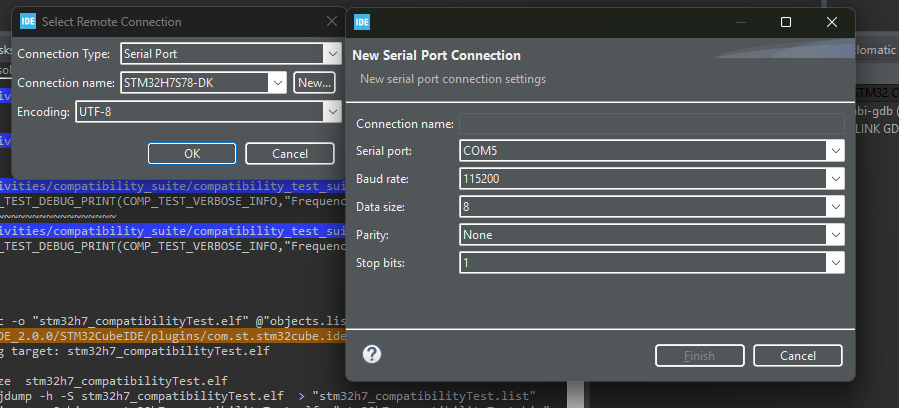
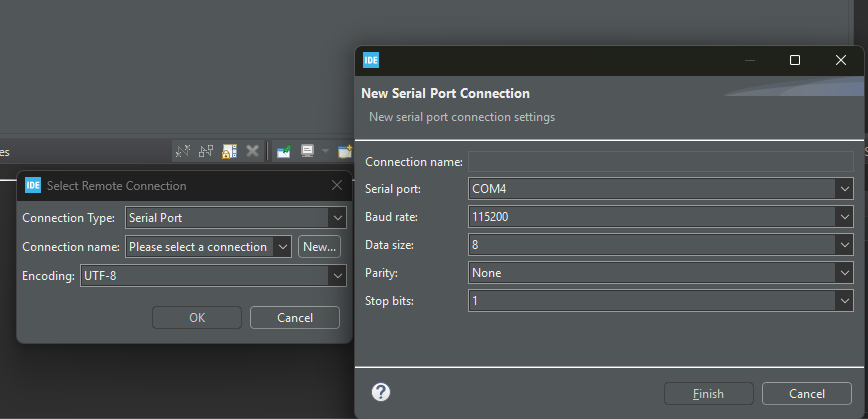
re-layout

diff --git a/platform/STM32N6_setup/docs/README.md b/platform/STM32N6_setup/docs/README.md
@@ -1,121 +1,114 @@
-<h2><u>STM32N65780-DK MB1939C platform instructions</u></h1>
-<br>
+<h2><u>STM32N6570-DK MB1939C platform instructions</u></h1>
 <br>
 <h4 { style="margin-bottom: 0px;" }><u>HW integration</u></h4>
 <br>
 <img src="images/um3300-discovery-kit-with-stm32n657x0-mcu-stmicroelectronics.png" width="600"><br>
 <br>
-<ol margin-top="0px"; margin-bottom="0px"; margin-left="0"; type="a"><b><u>Prepare the HW as follows:</u></b>
-<li> Remove the on board U25 device (see the Yellow circule)</li>
-<li> Replace with Winbond device (for example W77T25NW1)</li>
+<b><u>Prepare the HW as follows:</u></b><br>
+
+1. Remove the on board U25 device (see the Yellow circle)<br>
+2. Replace with Winbond device (for example W77T25NW1)<br>
 <br>
-<div><img src="images/um3300-discovery-kit-with-stm32n657x0-mcu-stmicroelectronics-bottom-side-bootSwitch.png" width="400"></div><br>
-<li> Make sure theat the mechanical switch <strong>BOOT1</strong> is set to <strong>H</strong> position (see the red arrows above)</li>
-<li> Connect a USB-C cable to the board's STLINK port on one side indicated as a green arrow</li>
-</ol>
+<div><img src="images/um3300-discovery-kit-with-stm32n657x0-mcu-stmicroelectronics-bottom-side-bootSwitch.png" width="400"></div>
+
+3. Make sure that the mechanical switch <strong>BOOT1</strong> is set to <strong>H</strong> position (see the red arrows above)<br>
+4. Connect a USB-C cable to the board's STLink port on one side indicated as a green arrow<br>
 
 
 <br>
 <u><h4 { style="margin-bottom: 0px;" }>SW integration</u></h4>
-<ol>
-  <li>Install the following tool chain:
-  <ol margin-top="0px"; margin-bottom="0px"; margin-left="0"; type="a">
-    <li>STM32CubeIDE - version 2.0.0 Build: 26820_20251114_1348</li>
-    <li>Clone  Winbond's Compatibility tests repository and combine into the project</li>
-  </ol></li><br>
 
-<Li> Installation of the terminal console (one time operation after installing the IDE)<br>
-    <ol margin-top="0px"; margin-bottom="0px"; margin-left="0"; type="a">
-      <li> Click on Menu->Help<br>
-      <div><img src="images/install_the_console_terminal1.png" width="700"></div></li><br>
-      Click "Install new Software.."<br>
-      <li> Select from the combo-box the item <strong>Eclipse SimRel 2024-09 - https://download.eclipse.org/releases/2024-09</strong><br>
-      <div><img src="images/install_the_console_terminal2.png" width="700"></div></li><br>
-      <li> Wait for few minutes while the available addons are being collected<br>
-      <div><img src="images/install_the_console_terminal3.png" width="700"></div></li><br>
-      <li> In the Filter line (above the populated list) write terminal<br>
-      <div><img src="images/install_the_console_terminal4.png" width="700"></div></li><br>
-      <li> Click on the checkbox of <strong>TM Terminal Connector Extensions</strong> and then, Click <strong>Next</strong>
-      <div><img src="images/install_the_console_terminal5.png" width="700"></div></li><br>      
-      <li>Click <strong>Finish</strong><br>
-      <div><img src="images/install_the_console_terminal6.png" width="700"></div></li><br>
-      <li> At the bottom right corner you wlil see the installation progress<br>
-      <div><img src="images/install_the_console_terminal7.png" width="400"></div></li><br>
-      <li> Once the installation is done, you will be prompetd to restat the IDE - Do it</li><br>
-      <li> Now, create a new Console and configure to accept UART4 transmissions<br>
-      <div><img src="images/install_the_console_terminal8.png" width="400"></div></li><br>
-      <li> Select <strong>Command Shell Console</strong> and fill the parameters as shown in the image<br>
+1. Install the STM32CubeIDE - version 2.0.0 Build: 26820_20251114_1348
+2. Install the STMCubeIDE terminal console or any other terminal tool
+3. Clone the Winbond's Compatibility tests repository
+4. Load the Project
+5. Compile
+6. Run the test
+<br>
+
+<u><b>Installation steps details:</b></u>
+
+1. <u>Install the STM32CubeIDE - version 2.0.0 Build: 26820_20251114_1348</u><br>
+    The test was run on the version & build as mentioned above, but it may run on other versions<br><br>
+2. <u>Install the STMCubeIDE terminal console or any other terminal tool</u><br>
+   This step is optional, you can skip this step if you only want a pass/fail indication by the LEDs or when using external terminal tool.<br>
+   The test was run on the STM32N6570DK with the following serial connection settings "115200bps 8N1".<br>
+   <u>Following are the steps for installing the IDE's terminal console</u>
+
+   a. Click on Menu->Help -> "Install new Software.."
+      <div><img src="images/install_the_console_terminal1.png" width="700"></div><br>
+   b. Select from the combo-box the item <strong>Eclipse SimRel 2024-09 - https://download.eclipse.org/releases/2024-09</strong>
+      <div><img src="images/install_the_console_terminal2.png" width="700"></div><br>
+   c. Wait for few minutes while the available addons are being collected<br>
+      <div><img src="images/install_the_console_terminal3.png" width="700"></div><br>
+   d. In the Filter line (above the populated list) write terminal<br>
+      <div><img src="images/install_the_console_terminal4.png" width="700"></div><br>
+   e. Click on the checkbox of <strong>TM Terminal Connector Extensions</strong> and then, Click <strong>Next</strong>
+      <div><img src="images/install_the_console_terminal5.png" width="700"></div><br>
+   f. Click <strong>Finish</strong>
+      <div><img src="images/install_the_console_terminal6.png" width="700"></div><br>
+   g. At the bottom right corner you wlil see the installation progress
+      <div><img src="images/install_the_console_terminal7.png" width="400"></div><br>
+   h. Once the installation is done, you will be prompetd to restat the IDE - Do it<br><br>
+   i. Now, create a new Console and configure to accept the STM32N6 log transmissions
+      <div><img src="images/install_the_console_terminal8.png" width="400"></div><br>
+   j. Select <strong>Command Shell Console</strong> and fill the parameters as shown in the image
       <div><img src="images/install_the_console_terminal9.png" width="400"></div><br>
-      <li> select <strong>New</strong> verify the serial port parameters as in the image <br>
-      <div><img src="images/install_the_console_terminal10.png" width="700"></div></li><br>
-      <li>Connect the STMLNK port of the board via a USB-C cable to the host computer and the comm port wlil be automatically filled.<BR>
-      Name the connection and click Finish and then click OK.<BR>
-      <div><img src="images/install_the_console_terminal11.png" width="500"></div></li>
-      <li>Switch between the different console contents (build-log / run-log /  <strong>UART4 output</strong>) by clicking on the blue arrow<br>
-      <div><img src="images/install_the_console_terminal12.png" width="400"></div></li><br>
-    </ol><br>
+   k. Select <strong>New</strong> verify the serial port parameters as in the image
+      <div><img src="images/install_the_console_terminal10.png" width="700"></div><br>
+   l. Connect the STLink port of the board via a USB-C cable to the host computer and the comm port wlil be automatically filled.<br><br>
+   m. Name the connection and click Finish and then click OK.
+      <div><img src="images/install_the_console_terminal11.png" width="500"></div><br>
+   n. Switch between the different console contents (build-log / run-log /  <strong>stm32n6570 output</strong>) by clicking on the blue arrow<br>
+      <div><img src="images/install_the_console_terminal12.png" width="400"></div><br><br>
 
-<li>The project uses Firmware Package V1.3.0 .<br>
-SW modules that are included</strong>:<br>
-  <ol type="a">
-    <li>stm32n6_bsp\Application\Startup\              </li>
-    <li>stm32n6_bsp\Application\User\                 </li>
-    <li>stm32n6_bsp\Drivers\BSP\STM32N6570-DK\        </li>
-    <li>stm32n6_bsp\Drivers\CMSIS\Device              </li>
-    <li>stm32n6_bsp\Drivers\CMSIS\Include             </li>
-    <li>stm32n6_bsp\Drivers\STM32N6xx_HAL_Driver\Inc  </li>
-    <li>stm32n6_bsp\Drivers\STM32N6xx_HAL_Driver\Src  </li>
-    <li>stm32n6_bsp\FSBL\Inc                          </li>
-    <li>stm32n6_bsp\FSBL\Src                          </li>
-  </ol></li>
-<br>
-</ol>
-<br>
-<u><h4 { style="margin-bottom: 0px;" }>Load the project</u></h4>
-<ol>
-  <li>In the IDE click on [File]->Import Projects from File System or Archive
-  <div><img src="images/file-importProject.png" width="400"></div></li><br>
-  
-  <li>click on the <strong>Directory</strong>
-  <div><img src="images/file-importProject-selectFolder.png" width="600"></div></li><br>
-  
-  <li>At the opened GUI, Browse to the root folder of the suite and click <strong>Select Folder</strong>
-  <div><img src="images/select_the_root_of_the_suite.png" width="600"></div></li><br>
 
-  <li>un-select all but  the STM32N6_setup checkboxes, then, click on the <strong>Finish</strong>
-  <div><img src="images/file-importProject-finish.png" width="600"></div></li><br>
-</ol>
+3. <u>Clone the Winbond's Compatibility tests repository</u>  
+   The project uses Firmware Package V1.3.0<br>
+   <u>The following SW modules are included</u>:<br>
+   a. stm32n6_bsp\Application\Startup\              
+   b. stm32n6_bsp\Application\User\                 
+   c. stm32n6_bsp\Drivers\BSP\STM32N6570-DK\        
+   d. stm32n6_bsp\Drivers\CMSIS\Device              
+   e. stm32n6_bsp\Drivers\CMSIS\Include             
+   f. stm32n6_bsp\Drivers\STM32N6xx_HAL_Driver\Inc  
+   g. stm32n6_bsp\Drivers\STM32N6xx_HAL_Driver\Src  
+   h. stm32n6_bsp\FSBL\Inc                          
+   i. stm32n6_bsp\FSBL\Src                          
+<br><br>
+
+4. <u>Load the project</u><br>
+  a. In the IDE click on [File]->Import Projects from File System or Archive<br>
+     <img src="images/file-importProject.png" width="400"><br><br>
+  b. Click on the <strong>Directory</strong><br>
+     <img src="images/file-importProject-selectFolder.png" width="600"><br><br>
+  c. At the opened GUI, Browse to the root folder of the suite and click <strong>Select Folder</strong><br>
+     <img src="images/select_the_root_of_the_suite.png" width="600"><br><br>
+  d. Un-select all but  the STM32N6_setup checkboxes, then, click on the <strong>Finish</strong><br>
+     <img src="images/file-importProject-finish.png" width="600"><br><br>
 <br>
-<u><h4 { style="margin-bottom: 0px;" }>Compile</h4></u>
-Right-click on the project -> Build Configurations -> Set Active -> Debug as the active build,  
+
+5. <u>Compile</u>
+   Right-click on the project -> Build Configurations -> Set Active -> Debug as the active build,  
    then, (at the above associative menu) choose <strong>Build Project</strong> or  <strong>[CTRL]+B</strong> or <strong>project->Build All</strong><br>
-   <img src="images/selectActiveBuild.png" width="300"><br>
-<br>
-<u><h4 { style="margin-bottom: 0px;" }>Run the test</h4></u>
-<ol>
-  <li>connect the board's STMLNK port to the host computer</li>
-  <li>To receive log messages switch the console display to uart4-output (see above in the console terminal installation)
+   <img src="images/selectActiveBuild.png" width="300"><br><br>
 
-<li>Run the test:  
-<ol>
-  <li>Click the Bug in Debug mode with breakpoint capability, or, click the right-pointing triangle to Run
-  <div><img src="images/run_the_test.png" "width="80"></div></li><br>
-  <li>The test result enables either the green (test pass) or RED (test fail) LEDs which are located at the bottom side of the board.</li><br>
-  <li><strong>Optionally</strong>, (in the case that the teraterm is running and configured)
-  <ol>
-    <li>Observe the test result on the output panel</li>
-    <li>Compare the test result to the log files which are located under the logs/ folder</li><br>
-  </ol></li>
+6. <u>Run the test</u><br>
+  a. Connect the board's STMLNK port to the host computer<br>
+  b. To receive log messages switch the console display to uart4-output (see above in the console terminal installation)<br>
+  c. Click the Bug in Debug mode with breakpoint capability, or, click the right-pointing triangle to Run<br>
+  <img src="images/run_the_test.png"><br>
+  d. The test result enables either the green (test pass) or RED (test fail) LEDs which are located at the bottom side of the board.<br>
+  e. <strong>Optionally</strong>, (in the case that the teraterm is running and configured)
+  f. Observe the green and red LEDs<br>
+  <img src="images/um3300-discovery-kit-with-stm32n657x0-mcu-stmicroelectronics-bottom-side.png" width="500"><br><br>
+  Example for test pass indication<br>
+  <img src="images/um3300-discovery-kit-with-stm32n657x0-mcu-stmicroelectronics-bottom-side-pass.jpg" width="200"><br><br>
+  Example for test fail indication<br>
+  <img src="images/um3300-discovery-kit-with-stm32n657x0-mcu-stmicroelectronics-bottom-side-fail.jpg" width="200"><br><br>
 
-  <li>Observe the green and red LEDs (located at the lower left corner of the board as shown below) which are configured to signal the user whether the test has passed (green LED on) or failed (red LED on)
-  <div><img src="images/um3300-discovery-kit-with-stm32n657x0-mcu-stmicroelectronics-bottom-side.png" width="500"></div><br>
-
-  <div>Example for test pass indication</div>
-  <div><img src="images/um3300-discovery-kit-with-stm32n657x0-mcu-stmicroelectronics-bottom-side-pass.jpg" width="200"></div><br>
+  g. Compare the test result to the log files which are located under the logs/ folder<br>
   
-  <div>Example for test fail indication</div>
-  <div><img src="images/um3300-discovery-kit-with-stm32n657x0-mcu-stmicroelectronics-bottom-side-fail.jpg" width="200"></div><br>
-</li></ol>
 
 ###### (*)Note: The mentioned IDE and TERATERM versions have been validated by Winbond. Different IDE and TERATERM versions may work as well.
 ---

diff --git a/platform/STM32H7_setup/docs/README.md b/platform/STM32H7_setup/docs/README.md
@@ -5,10 +5,10 @@
   <img src="images/STM32H7_top_side.jpg" width="600"><br>
   <br>
 <b><u>Prepare the HW as follows:</u></b><br>
-  1. Remove the on board U23 device (see the Yellow circule)<br>
+  1. Remove the on board U23 device (see the Yellow circle)<br>
   2. Replace with Winbond device (for example W77T64NWS)<br>
   3. Connect a USB-C cable to the board's STLINK port on one side (see the green arrow above)<br>
-  4. Make sure theat the mechanical switch <strong>BOOT0 (SW1)</strong> is set to <strong>0</strong> position as in the image below<br>
+  4. Make sure that the mechanical switch <strong>BOOT0 (SW1)</strong> is set to <strong>0</strong> position as in the image below<br>
     <img src="images/STM32H7_bootSwitch.jpg" width="300"><br>
 
 
@@ -25,10 +25,10 @@
 
 <u><b>Installation steps details:</b></u>
 
-1. <u>Install the STM32CubeIDE - version 2.0.0 Build: 26820_20251114_1348</u>
+1. <u>Install the STM32CubeIDE - version 2.0.0 Build: 26820_20251114_1348</u><br>
     The test was run on the version & build as mentioned above, but it may run on other versions<br>
-2. <u>Install the STMCubeIDE terminal console or any other terminal tool</u>
-   This step is optional, you can skip this step if you only want a pass/fail indication by the LEDs or when using external terminal tool.
+2. <u>Install the STMCubeIDE terminal console or any other terminal tool</u><br>
+   This step is optional, you can skip this step if you only want a pass/fail indication by the LEDs or when using external terminal tool.<br>
    The test was run on the STM32H7S78DK with the following serial connection settings "115200bps 8N1".<br>
    <u>Following are the steps for installing the IDE's terminal console</u><br>
 
@@ -76,9 +76,9 @@
       <img src="images/file-importProject.png" width="400"><br><br>
     b. Click on the <strong>Directory</strong><br>
       <img src="images/file-importProject-selectFolder.png" width="600"><br><br>
-    c. At the opened GUI, Browse to the root folder of the suite and click <strong>Select Folder</strong>
+    c. At the opened GUI, Browse to the root folder of the suite and click <strong>Select Folder</strong><br>
       <img src="images/select_the_root_of_the_suite.png" width="600"><br><br>
-    d. Un-select all but the STM32H7_setup checkboxes, then, click on the <strong>Finish</strong>
+    d. Un-select all but the STM32H7_setup checkboxes, then, click on the <strong>Finish</strong><br>
       <img src="images/file-importProject-finish.png" width="600"><br><br>
 
   5. <u>Compile</u><br>

diff --git a/README.md b/README.md
@@ -1,5 +1,6 @@
 ### W77Q/T Compatibility Tests  
-W77Q/T Secure Flash devices are fully compatible with the standard Flash instruction set used in the W25Q family of devices. This test suite demonstrates this compatibility across multiple platforms.
+W77Q/T Secure Flash devices are fully compatible with the standard Flash instruction set used in the W25Q family of devices.
+This test suite demonstrates this compatibility across multiple platforms.
 
 The platforms covered by this test suite are:
 * NXP i\.MX RT1050
@@ -48,7 +49,7 @@ HW and FW integration steps for each platform are in the links below:
  │    │    ├── 📁logs                        ; This folder contains the STM32H7 test logs
  │    │    ├── 📁stm32h7_board_extension
  │    │    ├── 📁stm32h7_bsp
- │    │    └── 📁source                      ; This folder contains the STM32H7 main() & supporting functions│
+ │    │    └── 📁source                      ; This folder contains the STM32H7 main() & supporting functions
  │    │
  │    └── 📁STM32N6_setup
  │         ├── 📁_settings                   ; IDE configuration files
@@ -56,7 +57,7 @@ HW and FW integration steps for each platform are in the links below:
  │         ├── 📁logs                        ; This folder contains the STM32N6 test logs
  │         ├── 📁stm32n6_board_extension
  │         ├── 📁stm32n6_bsp
- │         └── 📁source                      ; This folder contains the STM32N6 main() & supporting functions│
+ │         └── 📁source                      ; This folder contains the STM32N6 main() & supporting functions
  │
  ├── LICENSE.txt
  │

diff --git a/platform/NXP1050_setup/docs/README.md b/platform/NXP1050_setup/docs/README.md
@@ -11,7 +11,7 @@
 <ol>
 	<li>Replace the original QSPI Flash ISSI IS25WP064AJBLE (U33) with a Winbond W77Q/T  Secure Flash Device flash device in an SOIC-8 package.</li>
 	<li>0ohm streering resistors replacement (located at the bottom side):  
-	<ol type="a">
+	<ol  style="list-style-type: lower-alpha;"; >
 		<li>remove resistors R356, R361-R366, R49</li>
 		<li>solder resistors R153-R158</li>
 	</ol></li>
@@ -22,13 +22,13 @@
 <h4 { style="margin-bottom: 0px;" }><u>SW integration</u></h4>
 <ol>
 	<li>SW Installation (*):
-	<ol type="a">
+	<ol  style="list-style-type: lower-alpha;"; >
 		<li>NXP IDE - MCUXpresso IDE v25.6 [Build 136][2025-06-27]</li>
 		<li>SDK_2.x_EVKB-IMXRT1050 version 2.16.000 (847 2024-07-12) Manifest Version 3.14.0</li>
 		<li>Clone Winbond's Compatibility tests repository</li>
 		</ol></li><br>
 	<li>Load the project:
-	<ol type="a">
+	<ol  style="list-style-type: lower-alpha;"; >
 		<li>Import the project
 		<div><img src="images/file-importProject.png" width="400"></div></li><br>
 		<li>Select the folder which contains the .cproject

diff --git a/platform/NXP685_setup/docs/README.md b/platform/NXP685_setup/docs/README.md
@@ -5,14 +5,14 @@ Replace the on board flash device (marked with a yellow circle) with a Winbond W
 <h4 { style="margin-bottom: 0px;" }><u>SW integration</u></h4>
 <ol>
 	<li>SW Installation (*):
-	<ol type="a">
+	<ol  style="list-style-type: lower-alpha;"; >
 		<li>NXP IDE - MCUXpresso IDE v25.6 [Build 136][2025-06-27]</li>
 		<li>SDK_2.x_EVKB-IMXRT685 version 25.09.00 (epluginsite815 2025-09-22) Manifest Version 3.15.0</li>
 		<li>Clone  Winbond's Compatibility tests repository
 	</ol></li>
 	<br>
 	<li>Load the project:
-	<ol type="a">
+	<ol  style="list-style-type: lower-alpha;"; >
 		<li>Import the project:
 		<div><img src="images/file-importProject.png" width="400"></div></li><br>
 		<li>Select the folder which contains the .cproject
